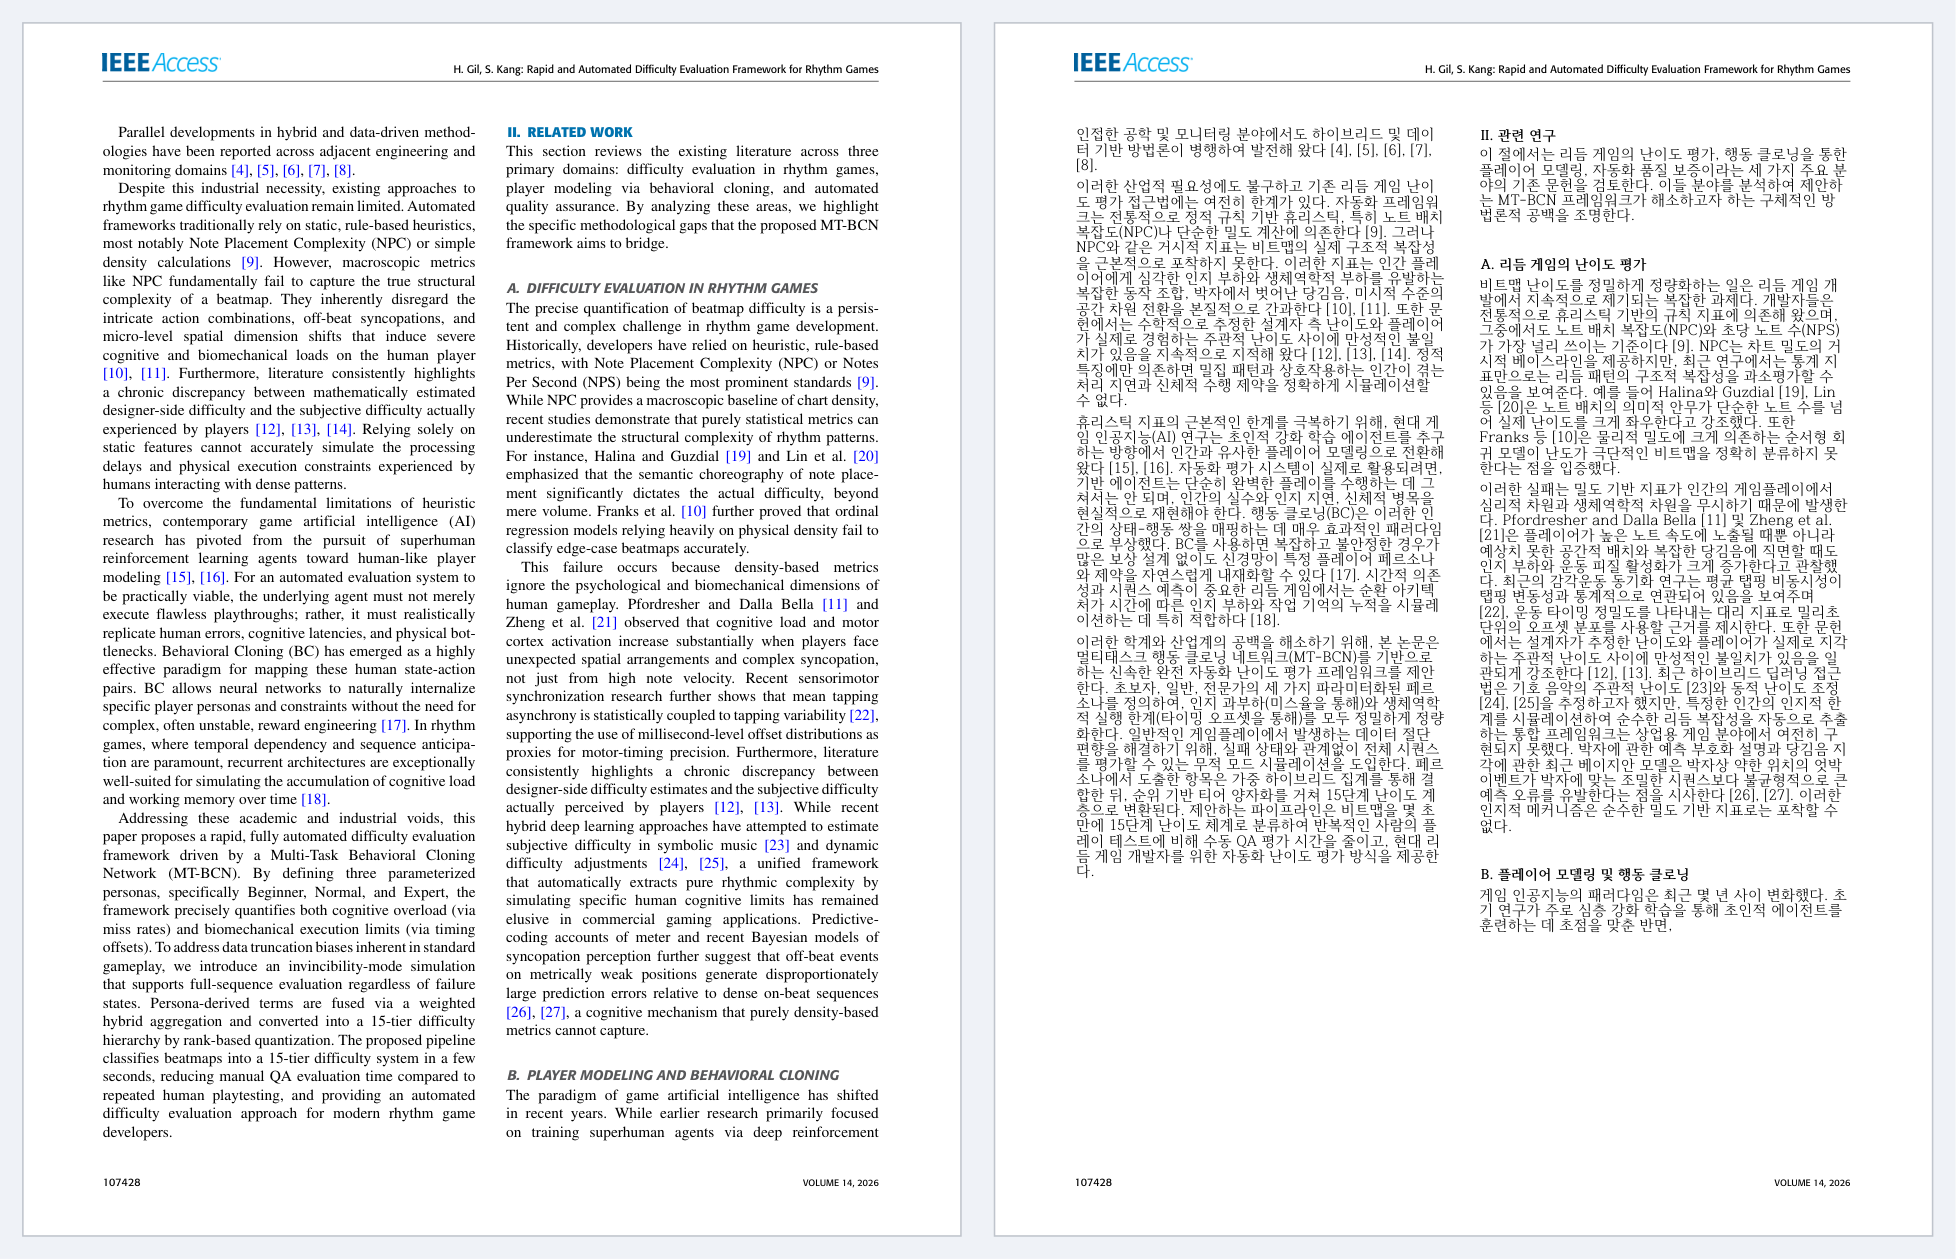
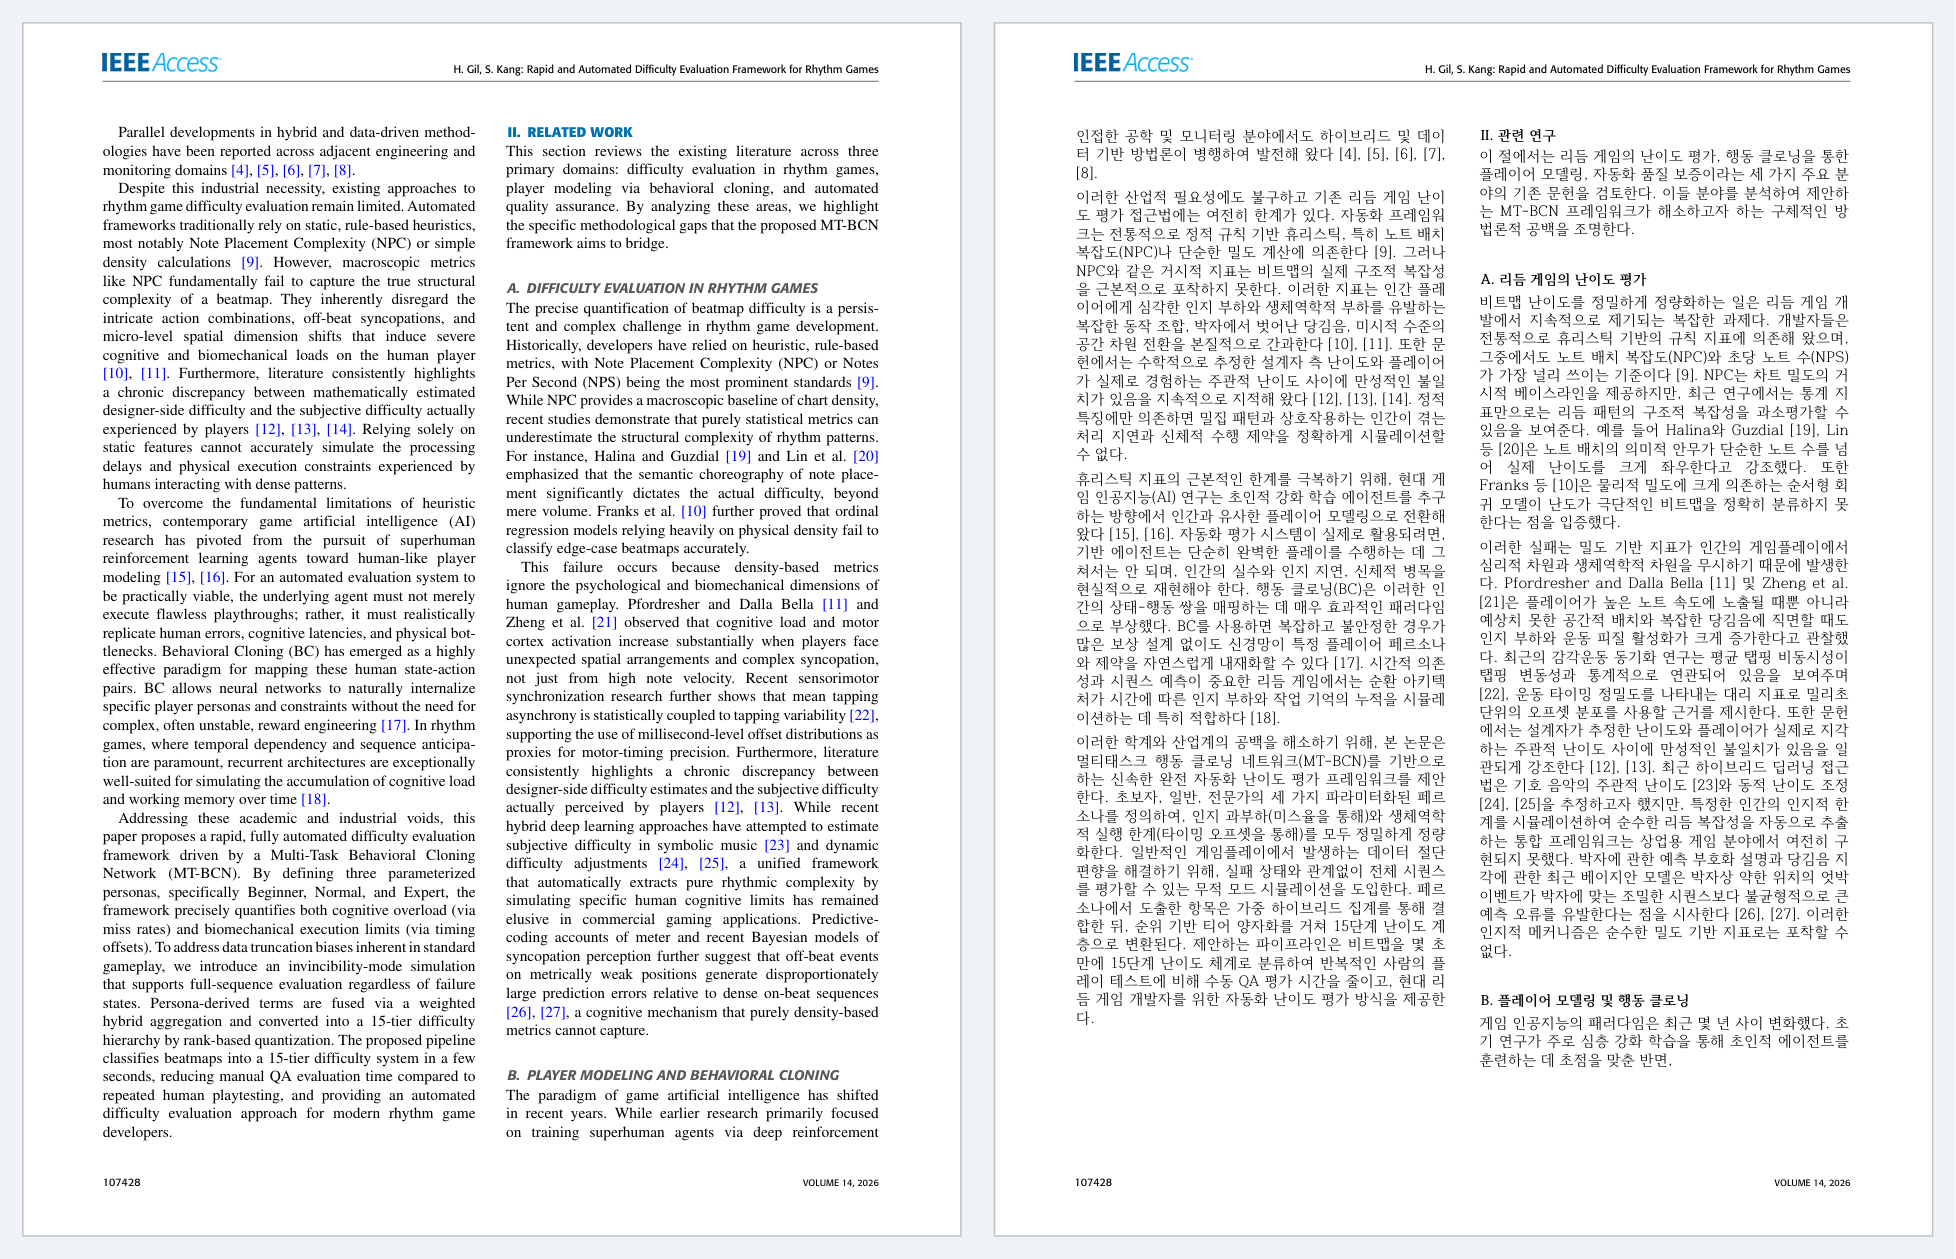
Open up translated body text and release v0.3.2
Flowed body paragraphs take the most open leading that fits at the
shared size (1.25, 1.15, then 1.04), so the type size stays uniform and
only the line spacing gives. Translated text is justified. The README
before/after image is regenerated with the new typesetting.

Changed region(s): [[0.5302, 0.0929, 0.9668, 0.8674]]

diff --git a/backend/app/pipeline/retypeset.py b/backend/app/pipeline/retypeset.py
@@ -38,6 +38,10 @@ _FLOOR_SCALE = _RESCUE_SCALES[-1]  # scale used with the forced expansion
 # removes the overlap; the capacity loss is absorbed by the loss-free
 # rescue ladder (a slightly smaller scale beats overlapping lines).
 _LINE_HEIGHT_EM = 1.04
+# Flowed body text reads cramped at 1.04 next to the ~1.2 leading of the
+# English. Each flow region takes the most open of these that fits at the
+# shared size; the type size stays uniform and only the leading gives.
+_FLOW_LEADINGS = (1.25, 1.15, _LINE_HEIGHT_EM)
 _FORCED_EXPAND_LINES = 1.0  # forced downward growth cap, in line heights
 _NEIGHBOR_GAP = 3.0  # safety gap kept above the next block when expanding
 # Minimum usable rect height: a redacted bbox thinner than this is grown to
@@ -290,8 +294,19 @@ def _force_expand_rect(
     return pymupdf.Rect(rect.x0, rect.y0, rect.x1, new_y1)
 
 
+def _html_text(text: str) -> str:
+    """Escaped HTML for translated text, newlines as <br>.
+
+    Lines may break between any two Hangul letters, as in most Korean
+    typesetting: keeping words whole (word joiners, since MuPDF ignores
+    word-break:keep-all) left wide gaps in justified lines.
+    """
+    return html.escape(text).replace("\n", "<br>")
+
+
 def _html_style(
     font_size: float, archive: pymupdf.Archive | None = None,
+    line_height: float = _LINE_HEIGHT_EM,
 ) -> tuple[str, pymupdf.Archive | None]:
     """CSS (and font archive) for one htmlbox insertion at ``font_size``.
 
@@ -318,7 +333,7 @@ def _html_style(
     css = (
         f"{face_css}* {{margin:0;padding:0;font-family:{family};"
         f"font-size:{font_size:.2f}pt;"
-        f"line-height:{_LINE_HEIGHT_EM};}}"
+        f"line-height:{line_height};text-align:justify;}}"
     )
     return css, archive
 
@@ -331,6 +346,7 @@ def _insert_html(
     obstacles: list[pymupdf.Rect],
     archive: pymupdf.Archive | None = None,
     base_scale: float = 1.0,
+    line_height: float = _LINE_HEIGHT_EM,
 ) -> bool:
     """Primary path: insert_htmlbox with automatic down-scaling.
 
@@ -344,7 +360,8 @@ def _insert_html(
     rect = pymupdf.Rect(*segment.bbox)
     if segment.kind == "heading":
         payload = f"<b>{payload}</b>"
-    css, archive = _html_style(segment.font_size * base_scale, archive)
+    css, archive = _html_style(segment.font_size * base_scale, archive,
+                               line_height)
 
     def attempt(target: pymupdf.Rect, low: float) -> tuple[float, float]:
         # A failed insert_htmlbox call writes nothing, so retrying with a
@@ -476,7 +493,7 @@ def _uniform_scales(
                     continue
                 text = _EQ_TOKEN_RE.sub(_MEASURE_EQ_STANDIN,
                                         translations[segment.id])
-                payload = html.escape(text).replace("\n", "<br>")
+                payload = _html_text(text)
                 if segment.kind == "heading":
                     payload = f"<b>{payload}</b>"
                 css, archive = _html_style(segment.font_size)
@@ -581,7 +598,7 @@ def _flow_regions(
 
 def _flow_payload(segment: Segment, text: str) -> str:
     text = _EQ_TOKEN_RE.sub(_MEASURE_EQ_STANDIN, text)
-    payload = html.escape(text).replace("\n", "<br>")
+    payload = _html_text(text)
     return f"<b>{payload}</b>" if segment.kind == "heading" else payload
 
 
@@ -591,16 +608,23 @@ def _flow_fits(
     translations: dict[str, str],
     scales: dict[str, float],
     body_scale: float,
+    leading: float = _LINE_HEIGHT_EM,
 ) -> bool:
-    """Does the region's text fit when set one paragraph after another?"""
+    """Does the region's text fit when set one paragraph after another?
+
+    ``leading`` applies to body paragraphs; headings keep the tight one.
+    """
     bottom = max(seg.bbox[3] for seg in region)
     cursor = region[0].bbox[1]
     for i, seg in enumerate(region):
         rect = pymupdf.Rect(seg.bbox[0], cursor, seg.bbox[2], bottom)
         if rect.height <= 0:
             return False
-        scale = body_scale if seg.kind == "body" else scales.get(seg.id, 1.0)
-        css, archive = _html_style(seg.font_size * scale)
+        if seg.kind == "body":
+            css, archive = _html_style(seg.font_size * body_scale,
+                                       line_height=leading)
+        else:
+            css, archive = _html_style(seg.font_size * scales.get(seg.id, 1.0))
         spare, _scale = page.insert_htmlbox(
             rect, f"<div>{_flow_payload(seg, translations[seg.id])}</div>",
             css=css, scale_low=1.0, archive=archive)
@@ -618,11 +642,13 @@ def _plan_flow(
     all_by_page: dict[int, list[Segment]],
     translations: dict[str, str],
     scales: dict[str, float],
+    leadings: dict[str, float],
 ) -> dict[str, tuple[int, float, float]]:
     """Group paragraphs into flow regions and choose the body size.
 
-    Updates ``scales`` in place with the body scale of every flowed body
-    paragraph and returns seg id -> (region id, gap after it, region bottom).
+    Updates ``scales`` and ``leadings`` in place with the body scale and
+    line height of every flowed body paragraph and returns
+    seg id -> (region id, gap after it, region bottom).
     """
     regions: list[list[Segment]] = []
     for pno, segments in by_page.items():
@@ -648,14 +674,25 @@ def _plan_flow(
                 else:
                     hi = mid
             best.append(lo)
+        with_body = [b for b, region in zip(best, regions)
+                     if any(seg.kind == "body" for seg in region)]
+        shared = min((b for b in with_body if b >= _FLOW_SHARED_FLOOR),
+                     default=_FLOW_SHARED_FLOOR)
+        # Then the most open leading each region fits at its final size.
+        region_leading: list[float] = []
+        for region, fit in zip(regions, best):
+            src = doc.load_page(region[0].page)
+            page = scratch.new_page(width=src.rect.width, height=src.rect.height)
+            region_leading.append(next(
+                (lead for lead in _FLOW_LEADINGS[:-1]
+                 if _flow_fits(page, region, translations, scales,
+                               min(shared, fit), lead)),
+                _FLOW_LEADINGS[-1]))
     finally:
         scratch.close()
-    with_body = [b for b, region in zip(best, regions)
-                 if any(seg.kind == "body" for seg in region)]
-    shared = min((b for b in with_body if b >= _FLOW_SHARED_FLOOR),
-                 default=_FLOW_SHARED_FLOOR)
     plan: dict[str, tuple[int, float, float]] = {}
-    for region_id, (region, fit) in enumerate(zip(regions, best)):
+    for region_id, (region, fit, lead) in enumerate(
+            zip(regions, best, region_leading)):
         bottom = max(seg.bbox[3] for seg in region)
         for i, seg in enumerate(region):
             gap = (max(0.0, region[i + 1].bbox[1] - seg.bbox[3])
@@ -663,6 +700,7 @@ def _plan_flow(
             plan[seg.id] = (region_id, gap, bottom)
             if seg.kind == "body":
                 scales[seg.id] = min(shared, fit)
+                leadings[seg.id] = lead
     return plan
 
 
@@ -870,7 +908,7 @@ def _inline_math_payload(
     pos = 0
     used: set[str] = set()
     for match in _EQ_TOKEN_RE.finditer(text):
-        parts.append(html.escape(text[pos:match.start()]))
+        parts.append(_html_text(text[pos:match.start()]))
         token = match.group(0)
         if token in runs and token not in used:
             used.add(token)
@@ -878,7 +916,7 @@ def _inline_math_payload(
         else:
             parts.append(" ")
         pos = match.end()
-    parts.append(html.escape(text[pos:]))
+    parts.append(_html_text(text[pos:]))
     # Leftover runs (dict order = source/reading order) trail the text.
     for token in runs:
         if token not in used:
@@ -928,8 +966,9 @@ def render_translated_pdf(
         _widen_headings(doc, by_page, all_by_page)
         base_scales = (_uniform_scales(doc, by_page, translations)
                        if use_htmlbox else {})
+        leadings: dict[str, float] = {}
         flow_plan = (_plan_flow(doc, by_page, all_by_page, translations,
-                                base_scales)
+                                base_scales, leadings)
                      if use_htmlbox else {})
         flow_cursor: dict[int, float] = {}
         for pno in by_page:
@@ -1154,11 +1193,12 @@ def render_translated_pdf(
                             raw_text, runs, image_mode, names,
                         )
                     else:
-                        payload = html.escape(text).replace("\n", "<br>")
+                        payload = _html_text(text)
                     placed = _insert_html(
                         page, segment, payload, report, obstacles,
                         archive=archive,
                         base_scale=base_scales.get(segment.id, 1.0),
+                        line_height=leadings.get(segment.id, _LINE_HEIGHT_EM),
                     )
                 if not placed:
                     if text.strip():

diff --git a/backend/app/__init__.py b/backend/app/__init__.py
@@ -1,3 +1,3 @@
 # Released version of paperTranslate. The self-updater compares it with the
 # latest GitHub release tag ("v0.1.0"); bump it together with the tag.
-__version__ = "0.3.0"
+__version__ = "0.3.2"
